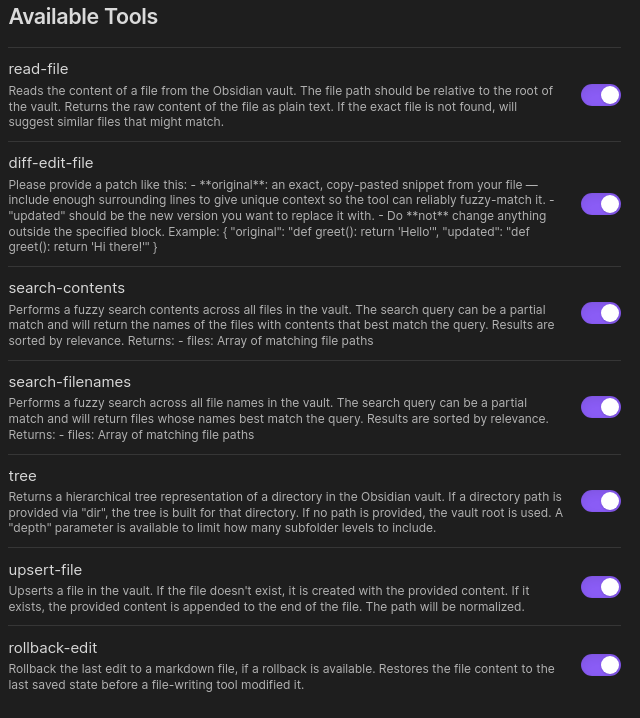
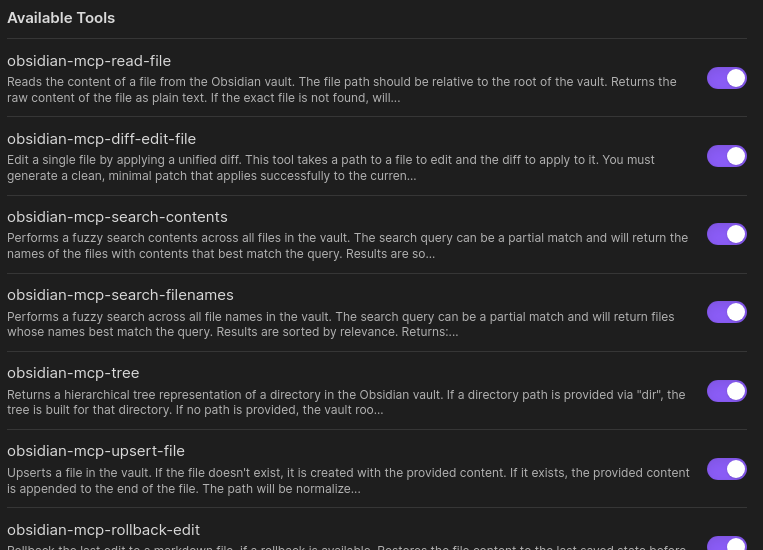
updated readme and screenshots to newer code base

diff --git a/README.md b/README.md
@@ -23,14 +23,15 @@ way for applications to interact with your vault.
 
 ## Features
 
-- **Direct MCP Server:** Hosts the MCP server within Obsidian itself, simplifying setup and improving performance
+- **Embeded MCP Server:** Hosts the MCP server within Obsidian itself as a plugin, simplifying setup and improving performance
 - **Vault Access via MCP:** Exposes your vault through standardized tools
 - **Structured Data Support:** Define custom schemas for structured note creation and validation
 - **File Operations:**
-  - Read and write files with smart diffing
+  - Read and write files
   - Fuzzy search across your vault
   - Navigate vault structure programmatically
-- **Configurable:** Customize server settings (port, host), tool availability, and security
+  - Structured data storage and access
+- **Configurable:** Customize server settings, tool availability, and authentication
 - **Optional Authentication:** Secure your server with optional Bearer token authentication.
 
 ![tool-selection](./docs/obsidian-settings-tools.png)
@@ -42,7 +43,7 @@ way for applications to interact with your vault.
 ### Community Plugins (Recommended)
 
 1. Open Obsidian Settings > Community Plugins
-2. Search for "MCP Plugin"
+2. Search for "Vault MCP"
 3. Click Install, then Enable
 4. Configure settings as needed
 
@@ -58,7 +59,7 @@ way for applications to interact with your vault.
 
 1. Enable the plugin in Obsidian's Community Plugins section.
 2. Navigate to the plugin settings.
-3. Configure the **Server Port** and **Binding Host**. The default port is `3000`, and the default host `0.0.0.0` binds to all network interfaces. Use `127.0.0.1` to restrict access to your local machine only.
+3. Configure the **Server Port** and **Binding Host**. The default port is `3000`, and the default host `127.0.0.1` binds to the local network. Use `0.0.0.0` to make it available to other machines.
 4. **(Optional) Enable Authentication:**
    - For endpoint security, you can enable Bearer token authentication. Toggle **Enable Authentication** in the settings.
    - A unique **Auth Token** will be displayed. Clients must include this token in the `Authorization` HTTP header like so: `Authorization: Bearer <your_token>`.
@@ -68,7 +69,7 @@ way for applications to interact with your vault.
 
 The plugin currently only supports Server-Sent Events (SSE) and StreamHTTP connections. For applications that require stdio connections (like Claude Desktop), you'll need to use a proxy. You can follow [Cloudflare's guide](https://developers.cloudflare.com/agents/guides/test-remote-mcp-server/#connect-your-remote-mcp-server-to-claude-desktop-via-a-local-proxy) on setting up a local proxy using [`mcp-remote`](https://www.npmjs.com/package/mcp-remote).
 
-Here is an example claude_desktop_config.json to use Cloudflare's local proxy.
+Here is an example claude_desktop_config.json to use `mcp-remote` local proxy.
 
 ```json
 {
@@ -93,98 +94,33 @@ You can find the correct url from the plugin's setting pannel under endpoints.
 - `obsidian-mcp-upsert-file`: Create or update files
 - `obsidian-mcp-rollback-edit`: Roll back the last edit to a markdown file (reverts the last change made by supported tools)
 
+# Interesting tools
+
 #### `obsidian-mcp-diff-edit-file`
 
-This tool allows you to update a section of a file by providing a snippet (the "original") and the new content (the "updated"). The tool will locate the original block in the file using fuzzy matching and replace it with your updated version. This is safer and more robust than replacing the whole file or relying on line numbers.
+This tool edits a single file by applying a simplified udiff. This is basically how Cursor and other LLM based code editors work. It is best for smarter models, as smaller ones tend to struggle to create the diffs acruately. To help with this problem, the tool returns a diff of the actual changes applied to the file. This helps the model to know that what got changed was what it expected or not.
 
-**How to use:**
+An example of this simplified udiff format is as follows:
 
-- **original**: A copy-pasted snippet from your file — include enough surrounding lines to give unique context so the tool can reliably fuzzy-match it.
-- **updated**: The new version you want to replace it with.
-
-**Example:**
-
-```json
-{
-  "path": "Notes/Example.md",
-  "original": "def greet():\n    return 'Hello'",
-  "updated": "def greet():\n    return 'Hi there!'"
-}
+```diff
+--- example.md
++++ example.md
+@@ ... @@
+-Old line of text
++New line of text
 ```
 
-If the block is found and the patch is valid, only that section will be updated. If the file is empty, the updated content will be written as the new file content.
+This simplified diff system is borrowed heavily from Aider, you can read more about their work [here](https://aider.chat/2023/12/21/unified-diffs.html)
 
 #### `obsidian-mcp-rollback-edit`
 
 This tool allows you to revert the last change made to a markdown file by supported file-writing tools (`obsidian-mcp-diff-edit-file`, `obsidian-mcp-upsert-file`, or structured update tools). Before any of these tools modify a file, the previous content is saved in a rollback store. You can use `obsidian-mcp-rollback-edit` to restore the file to its previous state.
 
-**How to use:**
-
-- **path**: The path to the markdown file you want to roll back (must end with `.md`).
-
-**Example:**
-
-```json
-{
-  "path": "Notes/Example.md"
-}
-```
-
 If a rollback is available, the file will be restored to its previous content, and you'll get a message with the timestamp and reason for the last change. If not, you'll get an error message.
 
-## Development
+## Structured Data Edits (dynamic tools)
 
-### Prerequisites
-
-- Basic knowledge of TypeScript and [Obsidian API](https://github.com/obsidianmd/obsidian-api)
-
-A nix flake is provided to create a standarized development environment.
-
-### Setup Development Environment
-
-```bash
-
-# Clone the repository
-
-git clone https://github.com/yourusername/obsidian-mcp-plugin.git
-cd obsidian-mcp-plugin
-
-# Install dependencies
-
-pnpm install
-
-# Start development build
-
-pnpm run dev
-```
-
-### Project Structure
-
-- `src/`: Source code
-  - `managers/`: Core functionality managers
-  - `structured-tools/`: Schema validation and tools
-  - `utils/`: Helper utilities
-  - `vault/`: Vault interaction code
-- `tests/`: Test files
-
-### Building
-
-```bash
-
-# Production build
-
-pnpm run build
-
-# Run tests
-
-pnpm test
-
-# Package for distribution
-
-pnpm run package
-```
-
-## Schema Guide
+### Schema Guide
 
 The plugin supports structured data through JSON Schema-based definitions. This enables type-safe note creation and validation.
 
@@ -194,11 +130,9 @@ In an essense, you describe a document and interface using yaml which is convert
 
 `yaml -> jsonschema -> zod -> MCP tool`
 
-### Examples
+#### Examples
 
-Create a new markdown file in your schema directory (default: `metadata/schemas`) with a YAML schema block:
-
-##
+Create a new markdown file in your schema directory (default: `metadata/schemas`) with a YAML schema block:#
 
 ```yaml
 metadata:
@@ -268,14 +202,14 @@ When you use it to put data into obsidan the result looks like this:
 
 ![obsidnan-schema-tool](./docs/schema-obsidian-tool.png)
 
-### Schema Validation
+#### Schema Validation
 
 Schemas are validated against:
 
 1. JSON Schema specification (draft-07)
 2. Plugin's [meta-schema](./src/structured-tools/meta-schema.json) for compliance with structure and zod types
 
-### Writing your own schemas
+#### Writing your own schemas
 
 There are two parts to the schemas.
 
@@ -286,6 +220,58 @@ The `fields` section, this describes your actual document. It will be represente
 The `fields` section is used to generate the `zod` schema which creates the MCP tool interface. So, you are simultainiously defining your data and also the interface to interact with it.
 
 This gives you access to many of `zods` features though, such as `minimum`/`maximum` `default` etc.
+
+## Development
+
+### Prerequisites
+
+- Basic knowledge of TypeScript and [Obsidian API](https://github.com/obsidianmd/obsidian-api)
+
+A nix flake is provided to create a standarized development environment.
+
+### Setup Development Environment
+
+```bash
+
+# Clone the repository
+
+git clone https://github.com/yourusername/obsidian-mcp-plugin.git
+cd obsidian-mcp-plugin
+
+# Install dependencies
+
+pnpm install
+
+# Start development build
+
+pnpm run dev
+```
+
+### Project Structure
+
+- `src/`: Source code
+  - `managers/`: Core functionality managers
+  - `structured-tools/`: Schema validation and tools
+  - `utils/`: Helper utilities
+  - `vault/`: Vault interaction code
+- `tests/`: Test files
+
+### Building
+
+```bash
+
+# Production build
+
+pnpm run build
+
+# Run tests
+
+pnpm test
+
+# Package for distribution
+
+pnpm run package
+```
 
 ## Contributing
 
